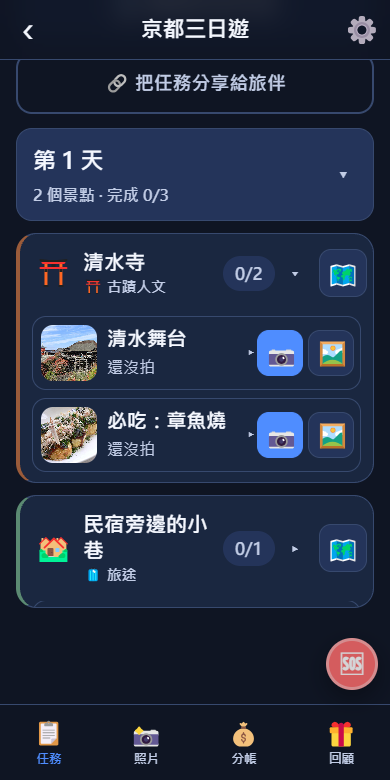
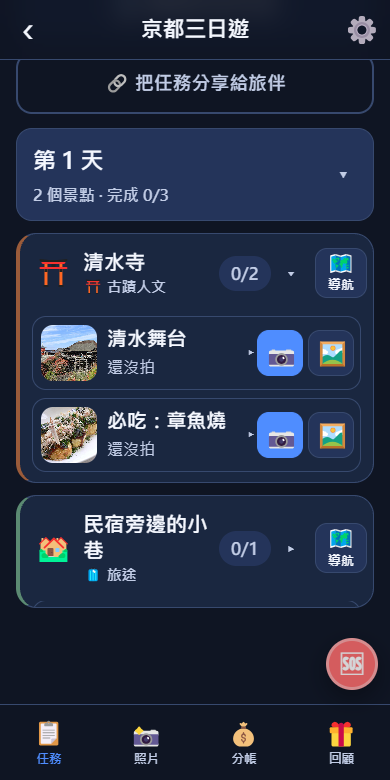
v1.44：使用者實測的七項調整
3.（原則）調整行程／景點設定這兩頁多半是年輕人在操作 —— 加上 .page.compact，
   間距與欄位高度收緊、按鈕改小、措辭精簡。長輩導向的尺寸與措辭要求仍然適用
   於任務頁、照片牆、SOS、加入流程。

1. 刪除景點後留在「調整每天的行程」（原本跳回任務頁）。儲存與取消也一併改成
   回 plan —— 這頁只從那裡進得去，跳去別頁等於把人踢走。

2. 「改任務」「景點設定」兩顆改成等寬 grid（1fr 1fr），圖示在前、文字精簡成
   「任務」「設定」，數量改用固定寬度的小徽章。原本「改任務（3）」跟「景點設定」
   長度不同，一排看起來是歪的。

5. 景點設定頁再精簡：拿掉上方的「第幾天／幾個任務」與底下「任務要改要加請到
   調整每天的行程」那段提示。只剩改名稱、時間、停留、刪除。

6. 「調整每天的行程」的提示只剩一句：
   「按住 ☰ 拖曳可以換順序，同一天內換前後也可以用 ▲ ▼。」

7. 分帳頁底部功能列位置不同 —— 無頭瀏覽器量下來四頁的 #tabbar 都是
   fixed / bottom:0 / top=768，**完全一樣，重現不出來**。最可能的原因是內容
   高度：內容比畫面短的分頁不能捲，iOS Safari 的瀏覽器工具列就不會收起來，
   固定在底部的功能列看起來因此高一截。做了兩件事：
   · .page 加 min-height: calc(100dvh - var(--topbar-h))，四頁一律至少一個
     畫面高，捲動特性一致
   · 修掉 expenses.js 與 badges.js 兩處 render() 沒有包 .page 的地方 ——
     少了它就完全沒有底部留白，內容會被功能列蓋住（沒有旅伴時的空狀態）
   新增 tabbartest（22 項）：兩種資料量 × 四個分頁 × 三種螢幕高度，
   驗位置一致、根節點是 .page、每頁至少一個畫面高。

8. 任務頁景點右方的地圖圖示加上「導航」字樣 —— 只有圖示很多人不知道那是什麼。

9. 已完成的任務右方不再顯示綠色打勾，改成跟未完成一樣的相機與相簿兩顆圖示鈕。
   位置與大小完全相同（測試比對距右與寬度），完成狀態改由縮圖（換成自己拍的
   那張）與列上的「✓ 已完成」表示。原本換成打勾等於完成前後操作方式不同，
   想再拍一張的人會在原本的位置找不到東西。

4.（確認）跨天拖曳的邊緣捲動實測操作感沒問題，先前的保留意見撤銷。

測試：新增 tabbartest（22 項）；densitytest 37、plantest 42（新增第 1、2、5、
6、8、9 項的斷言）。全套 654 項全過。

diff --git a/css/style.css b/css/style.css
@@ -114,6 +114,11 @@ button, input, textarea, select { font: inherit; }
      高 52px），不然捲到最後時最後一段內容會永遠被那顆紅色按鈕蓋住看不到。 */
   padding: 16px 16px calc(var(--tabbar-h) + env(safe-area-inset-bottom) + 84px);
   animation: fade 0.18s ease;
+  /* 每一頁至少佔滿一個畫面高：內容短的分頁（例如只有一兩筆的分帳）若比畫面矮，
+     頁面就不能捲，iOS Safari 的瀏覽器工具列因此不會收起來，底部功能列看起來
+     就比別的分頁高一截。四頁一律填滿，行為才一致。 */
+  min-height: calc(100vh - var(--topbar-h));
+  min-height: calc(100dvh - var(--topbar-h));
 }
 @keyframes fade { from { opacity: 0; transform: translateY(4px); } }
 .pad-x { padding: 0 2px; }
@@ -979,7 +984,20 @@ textarea.field { resize: vertical; line-height: 1.6; }
 .plan-main { flex: 1; min-width: 0; display: flex; flex-direction: column; gap: 4px; justify-content: center; }
 .plan-name { font-size: 1.1rem; font-weight: 800; line-height: 1.3; }
 .plan-time { font-size: 0.9rem; color: var(--muted); font-weight: 700; }
-.plan-row-actions { display: flex; gap: 8px; margin-top: 6px; }
+/* 兩顆等寬、圖示在前、數量用固定寬度的小徽章 ——
+   不然「改任務（3）」跟「景點設定」長度不同，一排看起來歪的 */
+.plan-row-actions { display: grid; grid-template-columns: 1fr 1fr; gap: 8px; margin-top: 8px; }
+.plan-row-actions .plan-mini {
+  display: flex; align-items: center; justify-content: center; gap: 5px;
+  width: 100%; min-height: 40px; padding: 6px 8px;
+}
+.plan-mini-ic { font-size: 1rem; line-height: 1; flex: none; }
+.plan-mini-t { font-weight: 700; }
+.plan-mini-n {
+  min-width: 20px; padding: 1px 5px; border-radius: 999px; flex: none;
+  background: var(--bg-elev-2); color: var(--muted);
+  font-size: 0.78rem; font-weight: 800; text-align: center;
+}
 .plan-mini {
   appearance: none; border: 1px solid var(--line); background: var(--bg-elev-2); color: var(--text);
   border-radius: 999px; padding: 8px 16px; font-weight: 800; font-size: 0.9rem; cursor: pointer; min-height: 42px;
@@ -1558,11 +1576,6 @@ textarea.field { resize: vertical; line-height: 1.6; }
 .qline.open .qline-chev { transform: rotate(90deg); }
 
 .qline-act { grid-area: act; display: flex; align-items: center; padding-right: 6px; }
-.qline-done {
-  grid-area: act; display: grid; place-items: center;
-  width: 46px; height: 46px; margin-right: 6px; flex: none;
-  color: var(--ok); font-size: 1.6rem; font-weight: 900;
-}
 .addphoto-icons { display: flex; gap: 5px; }
 .apx {
   width: 46px; height: 46px; border-radius: 12px; flex: none;
@@ -1598,12 +1611,15 @@ textarea.field { resize: vertical; line-height: 1.6; }
 }
 
 /* 景點標題列右邊的地圖小圖示（原本是整寬一顆大按鈕，每個景點省 64px） */
+/* 只有一個地圖圖示，很多人不知道那是導航 —— 一定要有字 */
 .qc-map {
-  flex: none; width: 48px; height: 48px; align-self: center; margin-right: 6px;
-  display: grid; place-items: center; font-size: 1.35rem;
+  flex: none; min-width: 52px; height: 50px; align-self: center; margin-right: 6px;
+  display: flex; flex-direction: column; align-items: center; justify-content: center; gap: 1px;
   border-radius: 12px; background: var(--bg-elev-2); border: 1px solid var(--line);
-  text-decoration: none;
+  text-decoration: none; color: var(--text); padding: 0 6px;
 }
+.qc-map-ic { font-size: 1.15rem; line-height: 1; }
+.qc-map-t { font-size: 0.68rem; font-weight: 800; letter-spacing: 0.5px; }
 .qc-map:active { transform: scale(0.94); }
 
 /* ---------- 投稿照片：blob 還沒到時的狀態 ---------- */
@@ -1636,3 +1652,10 @@ textarea.field { resize: vertical; line-height: 1.6; }
   border: 1px solid color-mix(in srgb, var(--danger) 45%, transparent);
   border-radius: 12px; padding: 14px; line-height: 1.7; font-size: 0.98rem;
 }
+
+/* 調整行程／景點設定：這兩頁多半是年輕人在操作，可以比日常畫面緊湊。
+   長輩導向的尺寸要求仍然適用於任務頁、照片牆、SOS、加入流程。 */
+.page.compact { padding-top: 12px; }
+.page.compact .form-field { margin-bottom: 12px; }
+.page.compact .form-label { font-size: 0.95rem; }
+.page.compact .field { min-height: 46px; padding: 10px 12px; }

diff --git a/js/views/plan.js b/js/views/plan.js
@@ -33,7 +33,7 @@ export default async function plan(tripId) {
 
   const list = h('div', { class: 'plan-list' });
   render(h('div', { class: 'page' },
-    h('p', { class: 'plan-tip' }, '按住 ☰ 拖曳可以換順序，也可以拖到別天（拖到畫面上下緣會自己往那邊捲）。同一天內換前後也可以用 ▲ ▼。任務和照片會自動跟著搬。'),
+    h('p', { class: 'plan-tip' }, '按住 ☰ 拖曳可以換順序，同一天內換前後也可以用 ▲ ▼。'),
     list,
   ));
 
@@ -95,11 +95,20 @@ export default async function plan(tripId) {
     }, '▼');
 
     const box = h('div', { class: 'plan-quests', hidden: true });
+    // 兩顆等寬、圖示在前、數字用固定寬度的小標籤 —— 不然「改任務（3）」跟
+    // 「景點設定」長度不一樣，一排看起來歪歪的
+    const count = h('span', { class: 'plan-mini-n' });
     const toggle = h('button', {
       class: 'plan-mini', onclick: () => { box.hidden = !box.hidden; label(); },
     });
     const label = () => {
-      toggle.textContent = (box.hidden ? '✏ 改任務' : '▾ 收起任務') + `（${store.questsOf(s.id).length}）`;
+      const n = store.questsOf(s.id).length;
+      toggle.replaceChildren(
+        h('span', { class: 'plan-mini-ic' }, box.hidden ? '✏' : '▾'),
+        h('span', { class: 'plan-mini-t' }, box.hidden ? '任務' : '收起'),
+        count,
+      );
+      count.textContent = String(n);
     };
     fillQuestBox(box, s, label);
     label();
@@ -112,7 +121,10 @@ export default async function plan(tripId) {
           timeTxt ? h('div', { class: 'plan-time' }, `🕘 ${timeTxt}`) : null,
           h('div', { class: 'plan-row-actions' },
             toggle,
-            h('button', { class: 'plan-mini', onclick: () => navigate(`/trip/${tripId}/spot/${s.id}`) }, '景點設定'),
+            h('button', { class: 'plan-mini', onclick: () => navigate(`/trip/${tripId}/spot/${s.id}`) },
+              h('span', { class: 'plan-mini-ic' }, '⚙'),
+              h('span', { class: 'plan-mini-t' }, '設定'),
+              h('span', { class: 'plan-mini-n', hidden: true })),
           ),
         ),
         h('div', { class: 'plan-updown' }, up, down),

diff --git a/js/views/spot.js b/js/views/spot.js
@@ -51,7 +51,7 @@ export default async function spot(tripId, spotId) {
     });
     if (renamed) enrichSpot(store.getRaw(spotId)).catch(() => {});
     toast('已儲存');
-    back(`/trip/${tripId}`);
+    back(`/trip/${tripId}/plan`);
   };
 
   const del = async () => {
@@ -82,13 +82,10 @@ export default async function spot(tripId, spotId) {
     }
     await store.remove(spotId);
     toast('已刪除');
-    navigate(`/trip/${tripId}`, { replace: true });
+    navigate(`/trip/${tripId}/plan`, { replace: true });
   };
 
-  render(h('div', { class: 'page form' },
-    h('p', { class: 'sm muted', style: 'margin:0 0 14px' },
-      `第 ${s.day || 1} 天${s.region ? '　' + s.region : ''}　${quests.length} 個任務`),
-
+  render(h('div', { class: 'page form compact' },
     field('景點名稱', nameField),
     field('幾點到', h('div', { class: 'spot-time-row' }, timeField,
       h('button', {
@@ -97,13 +94,11 @@ export default async function spot(tripId, spotId) {
       }, '清除'))),
     field('停留多久', stayField),
 
-    h('button', { class: 'btn btn-primary btn-block btn-big', style: 'margin-top:18px', onclick: save }, '儲存'),
-    h('button', { class: 'btn btn-ghost btn-block', onclick: () => back(`/trip/${tripId}`) }, '取消'),
+    h('button', { class: 'btn btn-primary btn-block', style: 'margin-top:18px', onclick: save }, '儲存'),
+    h('button', { class: 'btn btn-ghost btn-block', onclick: () => back(`/trip/${tripId}/plan`) }, '取消'),
 
-    h('div', { class: 'danger-zone', style: 'margin-top:28px' },
+    h('div', { class: 'danger-zone', style: 'margin-top:22px' },
       h('button', { class: 'btn btn-danger btn-block', onclick: del }, '🗑 刪除這個景點'),
-      h('p', { class: 'form-hint center', style: 'margin-top:8px' },
-        '任務要改或要加，在「調整每天的行程」那頁。'),
     ),
   ));
 }

diff --git a/js/views/trip.js b/js/views/trip.js
@@ -661,9 +661,9 @@ function spotMapButton(s) {
   if (!url) return null;
   return h('a', {
     class: 'qc-map', href: url, target: '_blank', rel: 'noopener',
-    'aria-label': `用地圖看「${s.name}」在哪裡`, title: `用地圖看「${s.name}」在哪裡`,
+    'aria-label': `導航到「${s.name}」`, title: `導航到「${s.name}」`,
     onclick: (e) => e.stopPropagation(),
-  }, '🗺');
+  }, h('span', { class: 'qc-map-ic' }, '🗺'), h('span', { class: 'qc-map-t' }, '導航'));
 }
 
 // 任務列：收合是一列（約 88px），點一下才展開大圖與說明。
@@ -744,11 +744,12 @@ function questLine(q, spot, themeKey) {
 
   row.append(
     head,
-    // 完成的任務右邊只放一個打勾；要再拍就點開（使用者指定的行為）
-    done
-      ? h('span', { class: 'qline-done', 'aria-label': '已完成' }, '✓')
-      : h('div', { class: 'qline-act' },
-          addPhotoButtons(q.tripId, q.id, { icons: true, onDone: () => trip(q.tripId) })),
+    // 完成與否，右邊都是同樣位置、同樣的兩顆圖示鈕。
+    // 之前完成的列改成一個綠色打勾，等於完成前後的操作方式不一樣 ——
+    // 想再拍一張的人會在原本的位置找不到東西。
+    // 完成狀態改由縮圖（換成他自己拍的那張）與列上的「✓ 已完成」表示。
+    h('div', { class: 'qline-act' },
+      addPhotoButtons(q.tripId, q.id, { icons: true, onDone: () => trip(q.tripId) })),
     more,
   );
   return row;

diff --git a/js/views/expenses.js b/js/views/expenses.js
@@ -17,7 +17,8 @@ export default async function expenses(tripId) {
 
   const members = store.membersOf(trip.groupId);
   if (members.length < 1) {
-    render(h('div', { class: 'empty' }, h('p', {}, '先在「旅程設定」加旅伴，才能分帳。')));
+    // 要包在 .page 裡 —— 少了它就沒有底部留白，內容會被底部功能列蓋住
+    render(h('div', { class: 'page' }, h('div', { class: 'empty' }, h('p', {}, '先在「旅程設定」加旅伴，才能分帳。'))));
     return;
   }
 

diff --git a/js/views/badges.js b/js/views/badges.js
@@ -15,7 +15,7 @@ export default async function badges(tripId) {
   setTop({ title: '成就徽章' });
 
   const members = store.membersOf(trip.groupId);
-  if (!members.length) { render(h('div', { class: 'empty' }, h('p', {}, '先加旅伴。'))); return; }
+  if (!members.length) { render(h('div', { class: 'page' }, h('div', { class: 'empty' }, h('p', {}, '先加旅伴。')))); return; }
 
   let who = activeMemberId(tripId) || members[0].id;
 

diff --git a/sw.js b/sw.js
@@ -3,7 +3,7 @@
  * - 導覽請求：network-first，離線時回退 index.html
  * - 維基百科等跨網域請求：不快取、直接 network（失敗就失敗，非關鍵路徑）
  */
-const VERSION = 'tripquest-v1.43.0';
+const VERSION = 'tripquest-v1.44.0';
 const SHELL = `${VERSION}-shell`;
 
 const SHELL_ASSETS = [
